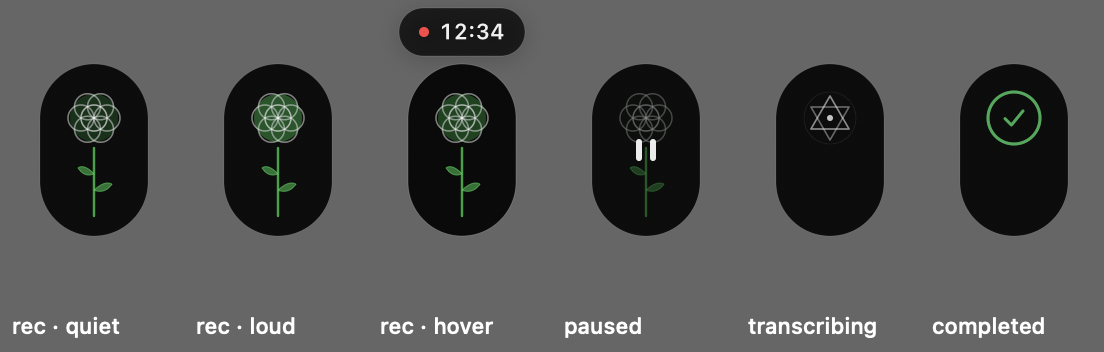
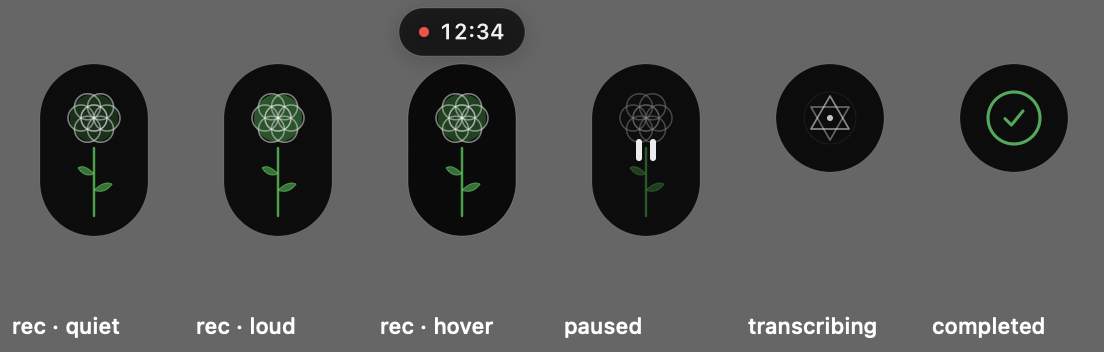
Circular pill container for stem-less states + Swift 6 CI fix
## What Changed

Two follow-ups on the pill-richness work:

- **Circular container for the stem-less states.** The recording capsule is tall
  to host the rosette + stem; the transcribing (merkaba spinner) and completed
  (checkmark) marks now sit in a **circle** that hugs them, instead of floating
  in the tall capsule with dead space below — matching the prior SwiftUI pill's
  separate compact `iconPill`. The circle shares the capsule's top edge and rises
  from the bottom, and the path animates tall→circle in sync with the collapse,
  so the stop reads as the stem being absorbed into the head.
- **Swift 6 language-mode clean (fixes the failing CI gate).** CI runs a
  `-swift-version 6` build that the default `swift build` skips, so these slipped
  through locally:
  - Completion callback now fires from a `@user Task` instead of
    `DispatchQueue.main.asyncAfter(execute:)` (which requires a `@user`
    closure); `onFinished` is typed `@user () -> Void`.
  - The elapsed-badge ticker is a `@user Task` instead of a `Timer`, so the
    nonisolated `deinit` cancels a `Sendable` handle rather than touching a
    non-`Sendable` `Timer?`.
  - Replaced the `withObservationTracking` state observer (which tripped
    `@user` capture rules) with an explicit `pillController.refreshState()`
    push from the coordinator on each state transition — keeps transitions
    instant and matches the coordinator's imperative style.

## Root Intent
[…]

Changed region(s): [[0.8623, 0.375, 0.9855, 0.6875], [0.6775, 0.375, 0.8007, 0.6875]]

diff --git a/Sources/MacParakeet/Views/MeetingRecording/MeetingRecordingPillController.swift b/Sources/MacParakeet/Views/MeetingRecording/MeetingRecordingPillController.swift
@@ -1,6 +1,5 @@
 import AppKit
 import MacParakeetViewModels
-import Observation
 import SwiftUI
 
 private final class MeetingRecordingClickablePanel: NSPanel {
@@ -149,6 +148,13 @@ final class MeetingRecordingPillController {
         pillView?.updateLiveAudioLevel(level)
     }
 
+    /// Push a view-model state change to the pill immediately, so the
+    /// recording → completing → transcribing → completed faces switch on the
+    /// transition rather than on the pill's next 1 s tick. No-op once hidden.
+    func refreshState() {
+        pillView?.refresh()
+    }
+
     // MARK: - Context Menu
 
     private func showContextMenu(with event: NSEvent) {
@@ -263,13 +269,25 @@ private final class MeetingRecordingAppKitPillView: NSView {
     private let timeDotLayer = CAShapeLayer()
     private let timeTextLayer = CATextLayer()
     private let badgeFont = NSFont.monospacedDigitSystemFont(ofSize: 11, weight: .semibold)
-    private var updateTimer: Timer?
+    /// 1 s ticker for the elapsed-time badge. A `@MainActor` `Task` rather than a
+    /// `Timer` so (a) its body runs in-isolation (no nonisolated `@Sendable`
+    /// hop to call `updateFromViewModel`) and (b) `Task` is `Sendable`, so the
+    /// nonisolated `deinit` can cancel it — both Swift 6 language-mode clean.
+    private var tickTask: Task<Void, Never>?
     private var completionCallbackScheduled = false
     private var trackingArea: NSTrackingArea?
     private var isHovered = false
     private var renderedState: MeetingRecordingPillViewModel.PillState?
     private var renderedHover: Bool?
     private var renderedReduceMotion: Bool?
+    /// The recording capsule is tall to host the rosette + stem; the stem-less
+    /// states (transcribing/completed) shrink it to a circle that hugs the
+    /// compact mark — matching the prior SwiftUI pill's separate `iconPill`. The
+    /// circle keeps the capsule's top edge and rises from the bottom, so the
+    /// collapse reads as the stem being absorbed into the head.
+    private var compactContainer = false
+    private let pillWidth: CGFloat = 54
+    private let pillTallHeight: CGFloat = 86
 
     /// System Settings → Accessibility → Display → Reduce Motion. The pill
     /// still shows (and tracks recording state via color/timer), it just stops
@@ -289,12 +307,17 @@ private final class MeetingRecordingAppKitPillView: NSView {
         wantsLayer = true
         setupLayers()
         updateFromViewModel()
-        observeState()
-        // Drives the per-second elapsed badge text; state *transitions* come
-        // through observeState() so the stop → collapse → spinner → checkmark
-        // sequence reacts instantly instead of waiting up to a poll interval.
-        updateTimer = Timer.scheduledTimer(withTimeInterval: 1.0, repeats: true) { [weak self] _ in
-            self?.updateFromViewModel()
+        // Drives the per-second elapsed badge text. State *transitions* are
+        // pushed promptly by the coordinator via `refresh()` (see
+        // `MeetingRecordingPillController.refreshState()`), so the stop →
+        // collapse → spinner → checkmark sequence reacts immediately instead of
+        // waiting up to a poll interval.
+        tickTask = Task { @MainActor [weak self] in
+            while !Task.isCancelled {
+                try? await Task.sleep(for: .seconds(1))
+                guard !Task.isCancelled else { break }
+                self?.updateFromViewModel()
+            }
         }
         NSWorkspace.shared.notificationCenter.addObserver(
             self,
@@ -309,7 +332,7 @@ private final class MeetingRecordingAppKitPillView: NSView {
     }
 
     deinit {
-        updateTimer?.invalidate()
+        tickTask?.cancel()
         NSWorkspace.shared.notificationCenter.removeObserver(self)
     }
 
@@ -317,19 +340,10 @@ private final class MeetingRecordingAppKitPillView: NSView {
         updateFromViewModel()
     }
 
-    /// React to `viewModel.state` transitions immediately. `withObservationTracking`
-    /// is one-shot, so the change handler re-registers itself. State is mutated
-    /// on the main actor; the hop keeps us off the mutation's call stack.
-    private func observeState() {
-        withObservationTracking { [weak self] in
-            _ = self?.viewModel.state
-        } onChange: { [weak self] in
-            DispatchQueue.main.async {
-                guard let self else { return }
-                self.updateFromViewModel()
-                self.observeState()
-            }
-        }
+    /// Pull the latest view-model state immediately (pushed by the coordinator
+    /// on a state transition, so animations don't wait for the 1 s timer).
+    func refresh() {
+        updateFromViewModel()
     }
 
     override func layout() {
@@ -430,26 +444,50 @@ private final class MeetingRecordingAppKitPillView: NSView {
     }
 
     private func layoutLayers() {
-        // Compact capsule that hugs the rosette + stem with even breathing room
-        // (was 54x106, which left ~20pt of dead space above and below the
-        // flower). Centered on the panel's midY so the icon and pause-bars stay
-        // put regardless of the capsule height — only the black surface shrinks.
-        let pillWidth: CGFloat = 54
-        let pillHeight: CGFloat = 86
-        let pillRect = CGRect(
-            x: bounds.maxX - 74,
-            y: bounds.midY - pillHeight / 2,
-            width: pillWidth,
-            height: pillHeight
-        )
-        backgroundLayer.path = CGPath(
-            roundedRect: pillRect,
+        // The icon + pause-bars are positioned from the *tall* rect so the mark
+        // (rosette head / spinner / checkmark) stays put across states — only
+        // the black surface shrinks to a circle for the stem-less states.
+        let tallRect = containerRect(compact: false)
+        backgroundLayer.path = backgroundPath(compact: compactContainer)
+        iconView.frame = CGRect(x: tallRect.midX - 15, y: tallRect.midY - 37, width: 30, height: 74)
+        pauseLayer.frame = CGRect(x: tallRect.midX - 5, y: tallRect.midY - 5.5, width: 10, height: 11)
+    }
+
+    /// The capsule rect for a given state. Both shapes share the same top edge
+    /// (`midY − tallHeight/2`); the compact circle just stops at `pillWidth`
+    /// tall, so the bottom rises toward the head.
+    private func containerRect(compact: Bool) -> CGRect {
+        let top = bounds.midY - pillTallHeight / 2
+        let height = compact ? pillWidth : pillTallHeight
+        return CGRect(x: bounds.maxX - 74, y: top, width: pillWidth, height: height)
+    }
+
+    private func backgroundPath(compact: Bool) -> CGPath {
+        // cornerRadius = pillWidth/2 → stadium when tall, perfect circle when compact.
+        CGPath(
+            roundedRect: containerRect(compact: compact),
             cornerWidth: pillWidth / 2,
             cornerHeight: pillWidth / 2,
             transform: nil
         )
-        iconView.frame = CGRect(x: pillRect.midX - 15, y: pillRect.midY - 37, width: 30, height: 74)
-        pauseLayer.frame = CGRect(x: pillRect.midX - 5, y: pillRect.midY - 5.5, width: 10, height: 11)
+    }
+
+    /// Switch the capsule between tall and circular. When `animated` (the
+    /// stop → collapse transition), the path interpolates from its current
+    /// presentation so the capsule visibly absorbs the stem as the flower
+    /// collapses; otherwise it snaps (recording re-entry, fresh layout).
+    private func applyContainer(compact: Bool, animated: Bool) {
+        compactContainer = compact
+        let newPath = backgroundPath(compact: compact)
+        if animated {
+            let resize = CABasicAnimation(keyPath: "path")
+            resize.fromValue = backgroundLayer.presentation()?.path ?? backgroundLayer.path
+            resize.toValue = newPath
+            resize.duration = reduceMotion ? 0.4 : 0.85
+            resize.timingFunction = CAMediaTimingFunction(name: .easeInEaseOut)
+            backgroundLayer.add(resize, forKey: "containerResize")
+        }
+        backgroundLayer.path = newPath
     }
 
     /// Hover-revealed elapsed-time badge: red dot (amber when paused) + the live
@@ -552,28 +590,35 @@ private final class MeetingRecordingAppKitPillView: NSView {
         case .recording:
             pauseLayer.isHidden = true
             iconView.alphaValue = 1.0
+            applyContainer(compact: false, animated: false)
             // Glow is driven live by updateLiveAudioLevel; this sets the
             // resting base + starts the rosette rotation.
             iconView.update(isAnimating: !reduceMotion, audioLevel: 0)
         case .paused:
             pauseLayer.isHidden = false
             iconView.alphaValue = 0.45
+            applyContainer(compact: false, animated: false)
             iconView.update(isAnimating: false, audioLevel: 0)
         case .completing:
             pauseLayer.isHidden = true
             iconView.alphaValue = 1.0
+            // Shrink the capsule to a circle in sync with the collapsing flower.
+            applyContainer(compact: true, animated: true)
             playCompletionIfNeeded(reduceMotion: reduceMotion)
         case .transcribing:
             pauseLayer.isHidden = true
             iconView.alphaValue = 1.0
+            applyContainer(compact: true, animated: false)
             iconView.showSpinner(animated: !reduceMotion)
         case .completed:
             pauseLayer.isHidden = true
             iconView.alphaValue = 1.0
+            applyContainer(compact: true, animated: false)
             iconView.showCheckmark(animated: !reduceMotion)
         case .idle, .error:
             pauseLayer.isHidden = true
             iconView.alphaValue = 1.0
+            applyContainer(compact: false, animated: false)
             iconView.update(isAnimating: false, audioLevel: 0)
         }
         updateBackgroundIfNeeded()

diff --git a/plans/active/assets/pill_preview_harness.swift b/plans/active/assets/pill_preview_harness.swift
@@ -34,6 +34,7 @@ final class PillPreview: NSView {
     let timeText: String
 
     private var paused: Bool { if case .paused = mode { return true } else { return false } }
+    private var compact: Bool { switch mode { case .spinner, .checkmark: return true; default: return false } }
 
     init(pillWidth: CGFloat, pillHeight: CGFloat, mode: PreviewMode, hovered: Bool = false, timeText: String = "12:34") {
         self.pillWidth = pillWidth
@@ -106,15 +107,14 @@ final class PillPreview: NSView {
 
     override func layout() {
         super.layout()
-        let pillRect = CGRect(
-            x: bounds.maxX - 74,
-            y: bounds.midY - pillHeight / 2,
-            width: pillWidth,
-            height: pillHeight
-        )
-        backgroundLayer.path = CGPath(roundedRect: pillRect, cornerWidth: pillWidth / 2, cornerHeight: pillWidth / 2, transform: nil)
-        iconView.frame = CGRect(x: pillRect.midX - 15, y: pillRect.midY - 37, width: 30, height: 74)
-        pauseLayer.frame = CGRect(x: pillRect.midX - 5, y: pillRect.midY - 5.5, width: 10, height: 11)
+        // Tall rect anchors the mark; the compact (circle) container shares the
+        // tall top edge and stops at pillWidth so its bottom rises to the head.
+        let top = bounds.midY - pillHeight / 2
+        let tallRect = CGRect(x: bounds.maxX - 74, y: top, width: pillWidth, height: pillHeight)
+        let bgRect = CGRect(x: bounds.maxX - 74, y: top, width: pillWidth, height: compact ? pillWidth : pillHeight)
+        backgroundLayer.path = CGPath(roundedRect: bgRect, cornerWidth: pillWidth / 2, cornerHeight: pillWidth / 2, transform: nil)
+        iconView.frame = CGRect(x: tallRect.midX - 15, y: tallRect.midY - 37, width: 30, height: 74)
+        pauseLayer.frame = CGRect(x: tallRect.midX - 5, y: tallRect.midY - 5.5, width: 10, height: 11)
         iconView.layoutSubtreeIfNeeded()
 
         let textSize = (timeText as NSString).size(withAttributes: [.font: badgeFont])

diff --git a/Sources/MacParakeet/Views/MeetingRecording/MerkabaPillIcon.swift b/Sources/MacParakeet/Views/MeetingRecording/MerkabaPillIcon.swift
@@ -174,7 +174,7 @@ final class MerkabaPillIconView: NSView {
     /// glow warms green → gold, leaves detach and drift, the stem retracts, then
     /// everything fades — handing off to the processing spinner. CA port of
     /// `FlowerCompletionView`. `onFinished` fires when the collapse is done.
-    func playCompletion(reduceMotion: Bool, onFinished: @escaping () -> Void) {
+    func playCompletion(reduceMotion: Bool, onFinished: @escaping @MainActor () -> Void) {
         buildLayersIfNeeded()
         setFace(.rosette)
         stopAnimations()
@@ -189,7 +189,7 @@ final class MerkabaPillIconView: NSView {
             fade.fillMode = .forwards
             fade.isRemovedOnCompletion = false
             for layer in rosetteLayers where !layer.isHidden { layer.add(fade, forKey: "completionFade") }
-            DispatchQueue.main.asyncAfter(deadline: .now() + 0.4, execute: onFinished)
+            scheduleCompletion(after: 0.4, onFinished)
             return
         }
 
@@ -227,7 +227,18 @@ final class MerkabaPillIconView: NSView {
         glowFade.beginTime = CACurrentMediaTime() + 0.8
         glowLayer.add(glowFade, forKey: "completionGlowFade")
 
-        DispatchQueue.main.asyncAfter(deadline: .now() + 1.0, execute: onFinished)
+        scheduleCompletion(after: 1.0, onFinished)
+    }
+
+    /// Fire the collapse-finished callback after `delay`, on the main actor.
+    /// (A `Task` instead of `DispatchQueue.asyncAfter(execute:)` so the
+    /// `@MainActor` callback isn't forced through a `@Sendable` parameter —
+    /// Swift 6 language-mode clean.)
+    private func scheduleCompletion(after delay: Double, _ onFinished: @escaping @MainActor () -> Void) {
+        Task { @MainActor in
+            try? await Task.sleep(for: .seconds(delay))
+            onFinished()
+        }
     }
 
     /// Processing state: two counter-rotating triangles (the merkaba) with a

diff --git a/Sources/MacParakeet/App/MeetingRecordingFlowCoordinator.swift b/Sources/MacParakeet/App/MeetingRecordingFlowCoordinator.swift
@@ -151,6 +151,7 @@ final class MeetingRecordingFlowCoordinator {
             // the pill to `.transcribing` / `.error`; we must not stomp it.
             guard self.pillViewModel.canTogglePause else { return }
             self.pillViewModel.state = wantPause ? .paused : .recording
+            self.pillController?.refreshState()
             self.panelViewModel?.isPaused = wantPause
         }
     }
@@ -483,6 +484,7 @@ final class MeetingRecordingFlowCoordinator {
             pillViewModel.micLevel = 0
             pillViewModel.systemLevel = 0
             pillViewModel.state = .completing
+            pillController?.refreshState()
             pillViewModel.onCompletionAnimationFinished = { [weak self] in
                 guard let self, self.pillViewModel.state == .completing else { return }
                 // Flower collapsed — show merkaba spinner (or checkmark if already done)
@@ -499,6 +501,7 @@ final class MeetingRecordingFlowCoordinator {
                 } else {
                     self.pillViewModel.state = .transcribing
                 }
+                self.pillController?.refreshState()
             }
             panelViewModel?.state = .transcribing
             panelViewModel?.micLevel = 0
@@ -574,6 +577,7 @@ final class MeetingRecordingFlowCoordinator {
             // If spinner is showing, transition to checkmark now
             if pillViewModel.state == .transcribing {
                 pillViewModel.state = .completed
+                pillController?.refreshState()
             }
             panelViewModel?.state = .hidden
 
@@ -613,6 +617,7 @@ final class MeetingRecordingFlowCoordinator {
                 panelViewModel?.compactErrorRecoveryMessage
                     ?? "Meeting interrupted. Open Library to retry transcription or export captured audio."
             )
+            pillController?.refreshState()
             hideMeetingPanel()
 
         case .hidePill:

diff --git a/plans/active/2026-05-meeting-recording-cpu-debug.md b/plans/active/2026-05-meeting-recording-cpu-debug.md
@@ -371,11 +371,26 @@ it.
   only while `.recording` and is cancelled alongside `stopPillPolling`. **It never
   writes `@Observable`**, so it can't re-trigger Root-Cause-#2. The 1 s poll no
   longer drives the pill glow at all.
-- **Instant state transitions:** the AppKit pill now also `withObservationTracking`s
-  `viewModel.state`, so stop → collapse → spinner → checkmark fires immediately
-  instead of waiting up to a 1 s poll tick (the 1 s timer still drives the elapsed
-  badge text). This was a latent responsiveness bug in the committed PR that a
-  visible collapse flourish would have made obvious.
+- **Instant state transitions:** the coordinator pushes each pill-state change via
+  `pillController.refreshState()`, so stop → collapse → spinner → checkmark fires
+  immediately instead of waiting up to a 1 s poll tick (a 1 s `Task` ticker still
+  drives the elapsed badge text). This was a latent responsiveness bug in the
+  committed PR that a visible collapse flourish would have made obvious. (An
+  earlier `withObservationTracking` attempt tripped Swift 6 `@Sendable` capture
+  rules; the explicit push is cleaner and matches the coordinator's style.)
+- **Stem-less states use a circular container:** the recording capsule is tall to
+  host the rosette + stem; transcribing/completed shrink it to a **circle** that
+  hugs the compact mark (matching the prior SwiftUI pill's separate `iconPill`).
+  The circle keeps the capsule's top edge and rises from the bottom, so the stop
+  reads as the stem being absorbed into the head; the path animates tall→circle in
+  sync with the collapse.
+- **Swift 6 language-mode clean (the CI gate):** CI runs a `-swift-version 6`
+  build the default `swift build` skips. The completion callback uses a
+  `@MainActor` `Task` (not `DispatchQueue.asyncAfter(execute:)`, which demands a
+  `@Sendable` closure), the badge ticker is a `@MainActor` `Task` (not a `Timer`,
+  so the nonisolated `deinit` can cancel a `Sendable` handle), and `onFinished` is
+  a `@MainActor` closure. Verified locally with the exact CI invocation
+  (`MACPARAKEET_SKIP_WHISPERKIT=1 swift build -Xswiftc -swift-version -Xswiftc 6`).
 
 **On-device verification (debug build, this session):**
 

diff --git a/plans/active/2026-05-meeting-recording-cpu-HANDOFF.md b/plans/active/2026-05-meeting-recording-cpu-HANDOFF.md
@@ -43,7 +43,7 @@ in the old pill. It was **CPU/rendering, never memory** (RAM stayed ~0.5%).
 | File | Change |
 |---|---|
 | `Views/MeetingRecording/MeetingRecordingPanelView.swift` | `BreathingSeedOfLifeView` → `NSViewRepresentable` + CALayer (`BreathingSeedOfLifeNSView`). CA pause for `freeze`; honors Reduce Motion. Fixes all 3 consumers (transcript + live-notes watermark, summary skeleton). |
-| `Views/MeetingRecording/MeetingRecordingPillController.swift` | AppKit/CALayer pill + Reduce Motion + compacted capsule 54×106→54×86 + hover-time badge. **+ richness:** dispatches the icon faces (recording/paused/completing/transcribing/completed), `updateLiveAudioLevel` forwards the fast glow, and `withObservationTracking` makes state transitions instant. |
+| `Views/MeetingRecording/MeetingRecordingPillController.swift` | AppKit/CALayer pill + Reduce Motion + compacted capsule 54×106→54×86 + hover-time badge. **+ richness:** dispatches the icon faces (recording/paused/completing/transcribing/completed), shrinks the capsule to a **circle** for the stem-less states, `updateLiveAudioLevel` forwards the fast glow, and `refreshState()` (pushed by the coordinator) makes transitions instant. Badge ticker is a `@MainActor Task` (Swift-6 deinit-clean). |
 | `Views/MeetingRecording/MerkabaPillIcon.swift` | CALayer rosette icon. **+ richness:** now owns four lifecycle faces (rosette / collapse merkaba / spinner / checkmark) with `setLiveGlow`, `playCompletion`, `showSpinner`, `showCheckmark`; all honor Reduce Motion. |
 | `Views/Transcription/MeetingRecordingTile.swift` | `SacredFlowerTile` dead rotation/sway machinery removed → static rosette. |
 | `Views/Meetings/MeetingsView.swift` | **Root cause #2 fix** — `MeetingsLiveStatusChip` leaf view owns the `formattedElapsed` read. |
@@ -78,12 +78,14 @@ past 99:59) **not regressed** — the new CALayer badge stays single-line at
   in PR #396. Live audio-responsive glow via a pill-local **~30 fps CALayer-only**
   channel (`startPillGlowPolling`, separate from the 1 s `startPillPolling`), plus
   the completion **collapse merkaba → spinner → checkmark** ported to CALayer one-
-  shots as four "faces" on `MerkabaPillIconView`. Also fixed a latent bug: the
-  AppKit pill now `withObservationTracking`s `viewModel.state` so transitions are
-  instant (it previously only polled at 1 s, which a visible collapse flourish
-  would have exposed as lag). All faces honor `reduceMotion`. Verified ~16–17%
-  recording (debug) — no CPU added. See the debug doc's "Restore the pill's lost
-  richness — IMPLEMENTED" section + `plans/active/assets/2026-05-pill-richness-*.png`.
+  shots as four "faces" on `MerkabaPillIconView`. The stem-less states (spinner /
+  checkmark) render in a **circular** container that the capsule animates down to.
+  Also fixed a latent bug: the coordinator now pushes state via `refreshState()`
+  so transitions are instant (the pill previously only polled at 1 s, which a
+  visible collapse flourish would have exposed as lag). All faces honor
+  `reduceMotion`, and it's Swift-6 language-mode clean (the CI gate). Verified
+  ~16–17% recording (debug) — no CPU added. See the debug doc's "Restore the
+  pill's lost richness — IMPLEMENTED" section + `plans/active/assets/2026-05-pill-richness-*.png`.
 - [ ] **(Optional) Release-build CPU confirmation.** Debug numbers are inflated;
   a Release pass on the final (richness-included) build is confirmation, not a
   blocker (see TL;DR correction). Use the verification matrix in the debug doc.